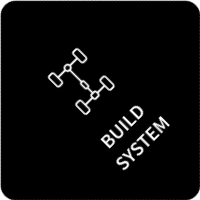
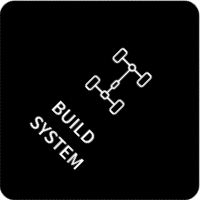
custom css hover

diff --git a/resources/views/pages/dashboard.blade.php b/resources/views/pages/dashboard.blade.php
@@ -1,60 +1,116 @@
 @extends('layouts.layout')
 
+
+
+<style>
+  /* resources/css/app.css */
+
+
+.container {
+    display: flex;
+    height: 100vh;
+    max-width: 100% !important;
+    background-image: url('../images/landing-bg.jpg');
+    background-position: center;
+    background-size: cover;
+}
+
+.content {
+
+    display: flex;
+    flex-direction: column;
+    align-items: center;
+    justify-content: center;
+    margin: auto;
+    transform: rotate(45deg);
+}
+
+
+.row {
+    display: flex;
+    margin-bottom: 1rem;
+}
+
+.image-container {
+    position: relative;
+    margin: 1.25rem;
+}
+
+.image-container img {
+    width: 7rem;
+    height: 7rem;
+    border-radius: 0.5rem;
+    transition: opacity 1s ease, transform 1s ease;
+}
+
+.image-container .default-img {
+    display: block;
+    transform: rotate(-90deg);
+    opacity: 1;
+}
+
+.image-container .hover-img {
+    display: block;
+    position: absolute;
+    top: 0;
+    left: 0;
+    transform: rotate(-90deg);
+    opacity: 0;
+}
+
+.image-container:hover .default-img {
+    opacity: 0;
+}
+
+.image-container:hover .hover-img {
+    opacity: 1;
+}
+
+@media (min-width: 768px) {
+    .image-container img {
+        width: 12.5rem;
+        height: 12.5rem;
+    }
+}
+
+
+
+</style>
+
 @section('content')
-    <div class="flex h-screen "
-        style="background-image: url('{{ asset('Images/landing-bg.jpg') }}'); height: 900px; width: 100%; background-position: center; object-fit: cover; ">
-
-
-        <div class="items-center justify-center mx-auto my-auto transform rotate-45">
-            <div class="flex">
-                <div class="flex image-container group">
+    <div class="container">
+        <div class="content">
+            <div class="row">
+                <div class="image-container">
                     <a href="{{ route('vehicledetailspage') }}">
-                        <img class="transform -rotate-90 m-5 md:w-[200px] md:h-[200px] w-28 h-28 hidden group-hover:block  transition duration-1000 bg-white rounded-lg"
-                            src="{{ asset('images/4.1.png') }}" alt="profile Pic">
-                        <img class="transform -rotate-90 m-5 md:w-[200px] md:h-[200px] w-28 h-28 group-hover:hidden transition duration-1000  bg-white"
-                            src="{{ asset('images/4.png') }}" alt="profile Pic">
+                        <img class="hover-img" src="{{ asset('images/4.1.png') }}" alt="profile Pic">
+                        <img class="default-img" src="{{ asset('images/4.png') }}" alt="profile Pic">
                     </a>
-
                 </div>
 
-
-                <div class="flex image-container group">
-                    <a href="">
-                        <img class="transform -rotate-90 m-5 md:w-[200px] md:h-[200px] w-28 h-28 hidden group-hover:block transition duration-1000 bg-white rounded-lg"
-                            src="{{ asset('images/1.1.png') }}" alt="profile Pic">
-                        <img class=" m-5 md:w-[200px] md:h-[200px] w-28 h-28 group-hover:hidden transition duration-1000  bg-white"
-                            src="{{ asset('images/1.png') }}" alt="profile Pic">
+                <div class="image-container">
+                    <a href="#">
+                        <img class="hover-img" src="{{ asset('images/1.1.png') }}" alt="profile Pic">
+                        <img class="default-img" src="{{ asset('images/1.png') }}" alt="profile Pic">
                     </a>
-
                 </div>
-
             </div>
 
-            <div class="flex ">
-
-                <div class="flex image-container group">
-                    <a href="{{route('customerlist')}}">
-                        <img class="transform -rotate-90 m-5 md:w-[200px] md:h-[200px] w-28 h-28 hidden group-hover:block transition duration-1000 bg-white rounded-lg"
-                            src="{{ asset('images/2.1.png') }}" alt="profile Pic">
-                        <img class="transform -rotate-90 m-5 md:w-[200px] md:h-[200px] w-28 h-28 group-hover:hidden transition duration-1000  bg-white"
-                            src="{{ asset('images/2.png') }}" alt="profile Pic">
+            <div class="row">
+                <div class="image-container">
+                    <a href="{{ route('customerlist') }}">
+                        <img class="hover-img" src="{{ asset('images/2.1.png') }}" alt="profile Pic">
+                        <img class="default-img" src="{{ asset('images/2.png') }}" alt="profile Pic">
                     </a>
-
                 </div>
-                <div class="flex">
-                    <div class="flex image-container group">
-                        <a href="">
-                            <img class="transform -rotate-90 m-5 md:w-[200px] md:h-[200px] w-28 h-28 hidden group-hover:block transition duration-1000 bg-white rounded-lg"
-                                src="{{ asset('images/3.1.png') }}" alt="profile Pic">
-                            <img class="transform -rotate-90 m-5 md:w-[200px] md:h-[200px] w-28 h-28 group-hover:hidden transition duration-1000  bg-white"
-                                src="{{ asset('images/3.png') }}" alt="profile Pic">
-                        </a>
 
-                    </div>
-
+                <div class="image-container">
+                    <a href="#">
+                        <img class="hover-img" src="{{ asset('images/3.1.png') }}" alt="profile Pic">
+                        <img class="default-img" src="{{ asset('images/3.png') }}" alt="profile Pic">
+                    </a>
                 </div>
             </div>
         </div>
-
     </div>
 @endsection
